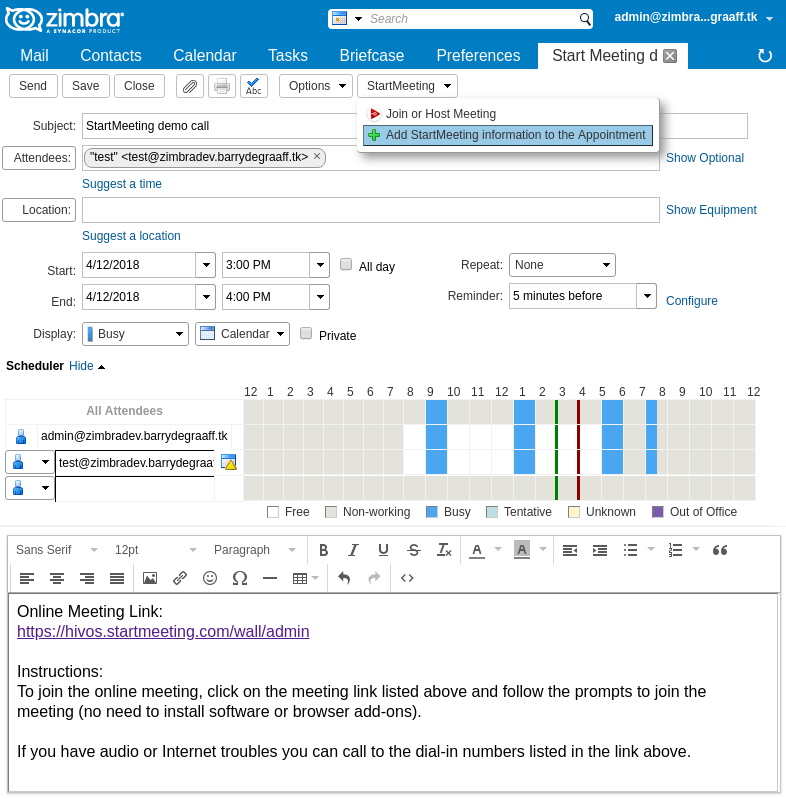
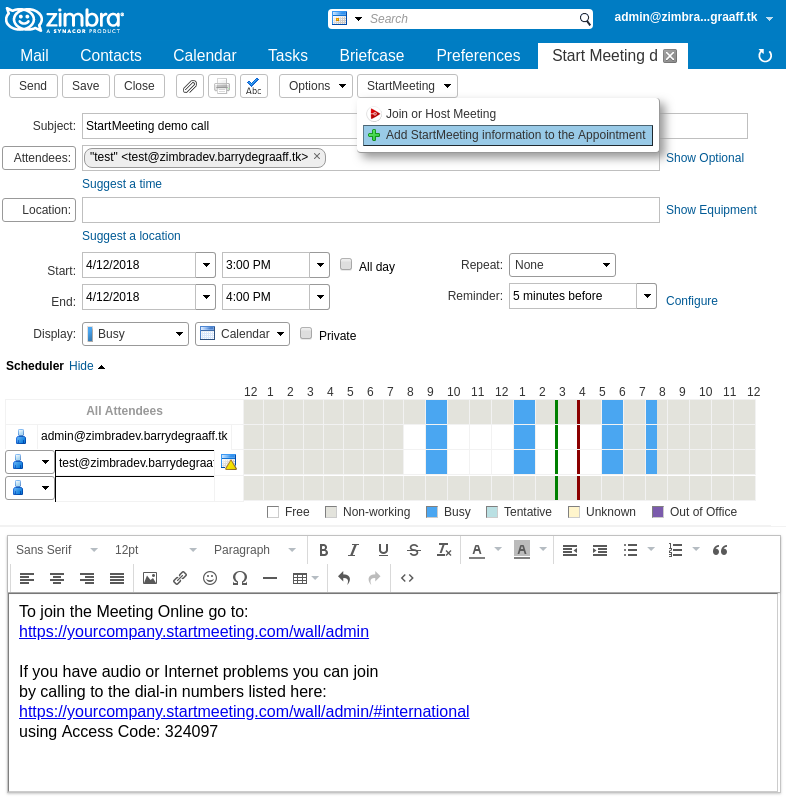
implement fetching the Access Code from the users wall

Changed region(s): [[0.0, 0.7509, 0.8855, 0.9612]]

diff --git a/tk_barrydegraaff_startmeeting/tk_barrydegraaff_startmeeting.js b/tk_barrydegraaff_startmeeting/tk_barrydegraaff_startmeeting.js
@@ -46,7 +46,8 @@ StartMeeting.prototype.init = function() {
    var zimletInstance = appCtxt._zimletMgr.getZimletByName('tk_barrydegraaff_startmeeting').handlerObject;   
    var username = appCtxt.getActiveAccount().name.match(/.*@/);
    username = username[0].replace('@','');
-   StartMeeting.wall = zimletInstance._zimletContext.getConfig('startMeetingURL') + '/wall/' + username;
+   StartMeeting.URL = zimletInstance._zimletContext.getConfig('startMeetingURL');
+   StartMeeting.username = username;
    } catch (err)
    {console.log('StartMeeting zimlet init error: '+err);}
 };
@@ -86,7 +87,7 @@ function() {
  * @param {string} type - the style of the message e.g. ZmStatusView.LEVEL_INFO, ZmStatusView.LEVEL_WARNING, ZmStatusView.LEVEL_CRITICAL
  * */
 StartMeeting.prototype.status = function(text, type) {
-   var transitions = [ ZmToast.FADE_IN, ZmToast.PAUSE, ZmToast.PAUSE, ZmToast.PAUSE, ZmToast.FADE_OUT ];
+   var transitions = [ ZmToast.FADE_IN, ZmToast.PAUSE, ZmToast.PAUSE, ZmToast.FADE_OUT ];
    appCtxt.getAppController().setStatusMsg(text, type, null, transitions);
 }; 
 
@@ -98,7 +99,7 @@ function() {
    zimletInstance._dialog.setContent(
    '<div style="width:450px; height:160px;">'+
    '<img style="margin:10px;margin-left:0px;" src="'+zimletInstance.getResource("logo.svg")+'">'+   
-   'Open your wall : <a href="'+StartMeeting.wall+'" target="_blank">'+StartMeeting.wall + '</a>' +
+   'Open your wall : <a href="'+StartMeeting.URL+'/wall/'+StartMeeting.username+'" target="_blank">'+StartMeeting.URL +'/wall/'+StartMeeting.username+ '</a>' +
    '</div>'
    );
    
@@ -161,22 +162,60 @@ StartMeeting.prototype._initCalendarStartMeetingToolbar = function(toolbar, cont
 };
 
 StartMeeting.prototype._AddStartMeetingLinkHandler = function(controller) {
-   var message = 'Online Meeting Link:\r\n[meetinglink]\r\n\r\nInstructions:\r\nTo join the online meeting, click on the meeting link listed above and follow the prompts to join the meeting (no need to install software or browser add-ons).\r\n\r\nIf you have audio or Internet troubles you can call to the dial-in numbers listed in the link above.\r\n';   
-   var editorType = "HTML";
-   if (controller._composeView.getComposeMode() != "text/html") {
-      editorType = "PLAIN_TEXT";
-   }
-   var currentContent = controller._composeView.getHtmlEditor().getContent();
-   var newContent = [];
-   if (editorType == "HTML") {
-      newContent.push(currentContent.substr(0, currentContent.lastIndexOf("</body></html>")));
-      newContent.push(message.replace(/\r\n/g,'<br>').replace('[meetinglink]','<a href="'+StartMeeting.wall+'" target="_blank">'+StartMeeting.wall + '</a>'));
-      newContent.push("</body></html>");
-   }
-   else {
-      newContent.push(currentContent + '\r\n\r\n' +message.replace('[meetinglink]',StartMeeting.wall));
-   }
-   controller._composeView.getHtmlEditor().setContent(newContent.join(""));   
+   StartMeeting.prototype.status(ZmMsg.loading, ZmStatusView.LEVEL_INFO);
+   var xhr = new XMLHttpRequest();
+   xhr.open( "GET", '/service/proxy?target='+StartMeeting.URL+'/wall/'+StartMeeting.username, true );
+   xhr.send( );
+   xhr.onreadystatechange = function (oEvent) 
+   {  
+      var access_code = "";
+      if (xhr.readyState === 4) 
+      {  
+         if (xhr.status === 200) 
+         {
+            try
+            {
+               access_code = xhr.response.match(/access_code":"(.{6})"/m);
+               access_code = access_code[1];
+            }
+            catch(err)
+            {
+            }
+         }
+         
+         if(access_code.length > 0)
+         {
+            access_code = 'using Access Code: ' + access_code; 
+         }
+         
+         var message = 'To join the Meeting Online go to:\r\n[meetinglink]\r\n\r\nIf you have audio or Internet problems you can join\r\nby calling to the dial-in numbers listed here:\r\n[meetinglink-international] \r\n[access_code]\r\n';   
+         var editorType = "HTML";
+         if (controller._composeView.getComposeMode() != "text/html") {
+            editorType = "PLAIN_TEXT";
+         }
+         var currentContent = controller._composeView.getHtmlEditor().getContent();
+         var newContent = [];
+         if (editorType == "HTML") {
+            newContent.push(currentContent.substr(0, currentContent.lastIndexOf("</body></html>")));
+            newContent.push(message
+               .replace(/\r\n/g,'<br>')
+               .replace('[meetinglink]','<a href="'+StartMeeting.URL+'/wall/'+StartMeeting.username+'" target="_blank">'+StartMeeting.URL+'/wall/'+StartMeeting.username+ '</a>')
+               .replace('[meetinglink-international]','<a href="'+StartMeeting.URL+'/wall/'+StartMeeting.username+'/#international" target="_blank">'+StartMeeting.URL+'/wall/'+StartMeeting.username+ '/#international</a>')
+               .replace('[access_code]',access_code)
+            );
+            
+            newContent.push("</body></html>");
+         }
+         else {
+            newContent.push(currentContent + '\r\n\r\n' +message
+               .replace('[meetinglink]',StartMeeting.URL+'/wall/'+StartMeeting.username)
+               .replace('[meetinglink-international]',StartMeeting.URL+'/wall/'+StartMeeting.username+'/#international')
+               .replace('[access_code]',access_code)
+            );
+         }
+         controller._composeView.getHtmlEditor().setContent(newContent.join(""));
+      }     
+   } 
 };
 
 StartMeeting.prototype._StartMeetingHandler = function(controller) {
@@ -188,6 +227,6 @@ StartMeeting.prototype._StartMeetingHandler = function(controller) {
    }
    else
    {
-      window.open(StartMeeting.wall);
+      window.open(StartMeeting.URL);
    }
 };

diff --git a/README.md b/README.md
@@ -20,4 +20,6 @@ You must download a copy of the Zimlet using git, configure your companies Start
     zip tk_barrydegraaff_startmeeting.zip *
     su zimbra
     zmzimletctl deploy tk_barrydegraaff_startmeeting.zip
+    zmprov mc default +zimbraProxyAllowedDomains *.startmeeting.com
+
 
